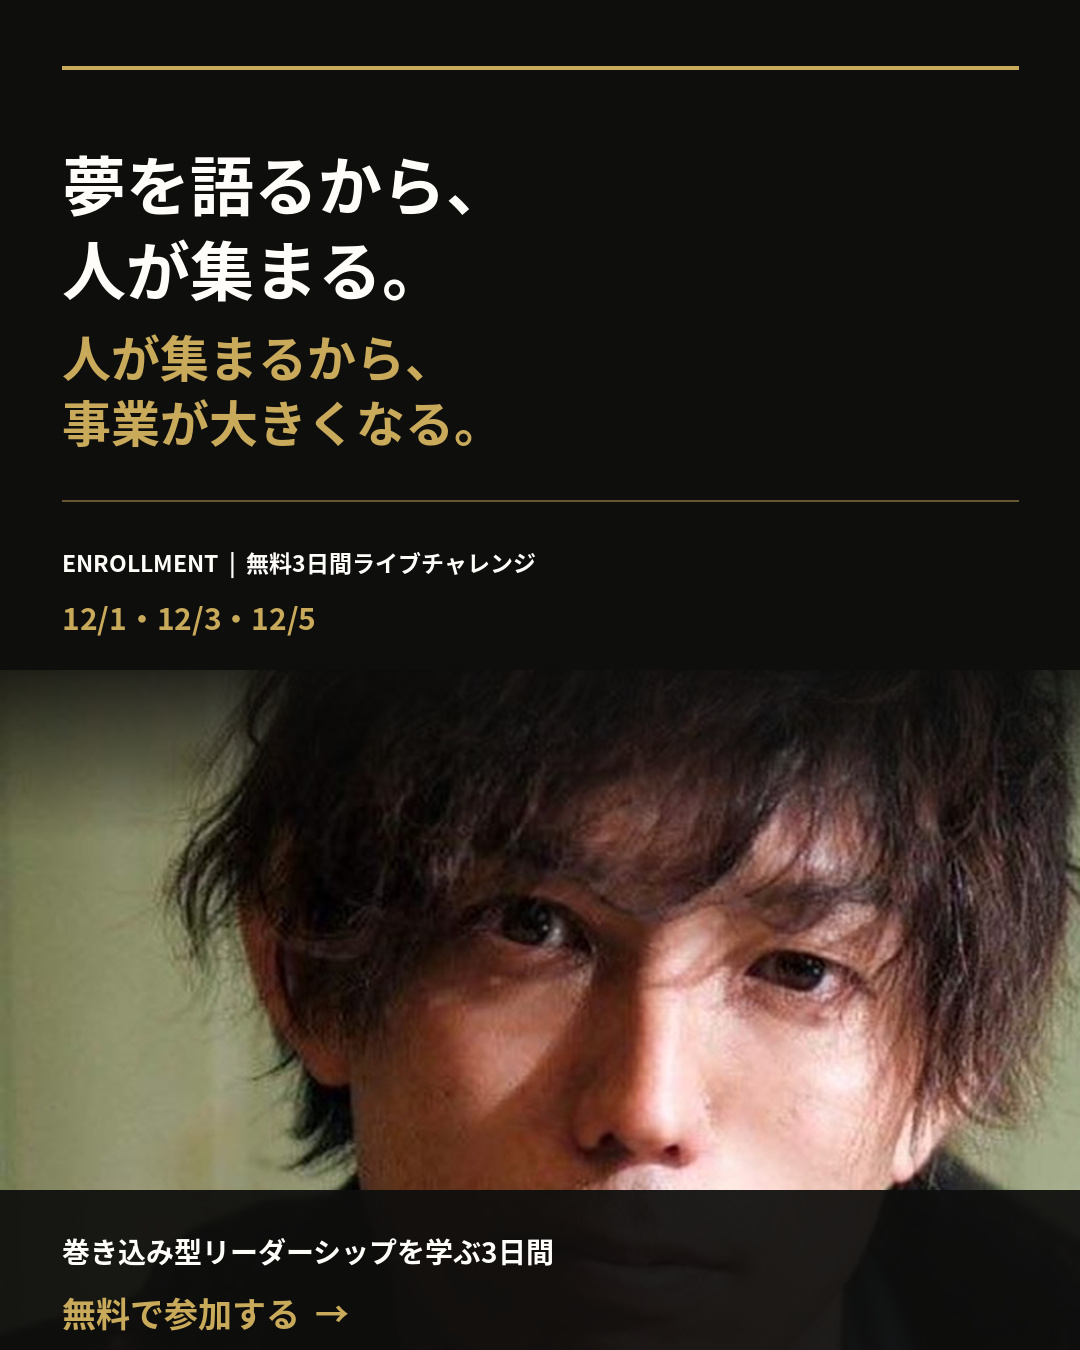
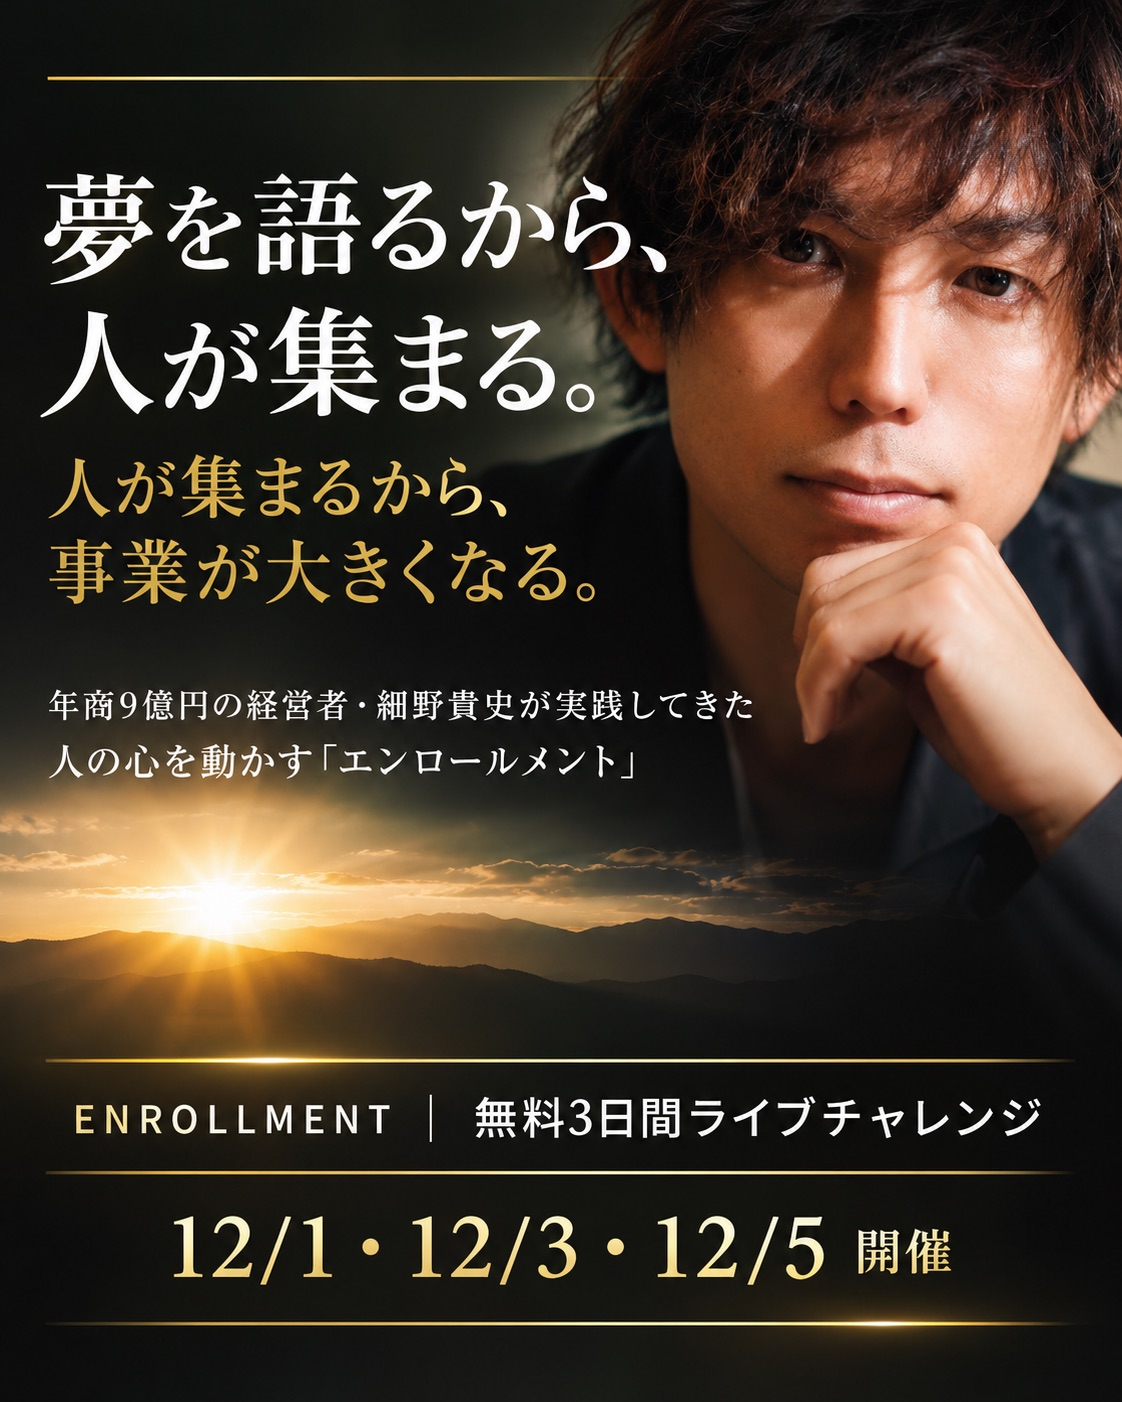
fix: refine Enrollment mobile hero and creative

diff --git a/enrollment/index.html b/enrollment/index.html
@@ -7,8 +7,8 @@
   <title>Enrollment｜無料3日間ライブチャレンジ</title>
   <style>
     :root{--ink:#11110f;--paper:#f6f2e9;--gold:#c9aa5b;--muted:#c9c4b8;--line:rgba(201,170,91,.4)}
-    *{box-sizing:border-box}html{scroll-behavior:smooth}body{margin:0;background:var(--ink);color:#fff;font-family:-apple-system,BlinkMacSystemFont,"Hiragino Sans","Yu Gothic",Meiryo,sans-serif;line-height:1.7}a{color:inherit;text-decoration:none}.wrap{width:min(1080px,calc(100% - 40px));margin:auto}.gold{color:var(--gold)}.eyebrow{font-size:.78rem;letter-spacing:.15em;color:var(--gold);font-weight:700}.cta{display:inline-flex;align-items:center;justify-content:center;background:var(--gold);color:var(--ink);font-weight:800;padding:18px 28px;min-width:260px;transition:.2s;box-shadow:0 10px 30px rgba(201,170,91,.18)}.cta:hover{transform:translateY(-2px);filter:brightness(1.08)}.cta--wide{width:100%;max-width:500px}.hero{min-height:760px;display:grid;grid-template-columns:1.05fr .95fr;gap:48px;align-items:center;padding:66px 0 40px}.hero h1{font-size:clamp(2.65rem,6vw,5.7rem);line-height:1.08;letter-spacing:-.05em;margin:18px 0 28px}.hero .lead{font-size:1.05rem;max-width:540px;color:#e8e4da;margin:0 0 30px}.date{display:flex;gap:10px;align-items:center;font-size:.95rem;margin:0 0 24px;color:var(--muted)}.date::before{content:"";display:block;width:24px;height:1px;background:var(--gold)}.hero-art{position:relative;min-height:570px;overflow:hidden;background:#191815;border:1px solid var(--line)}.hero-art img{display:block;width:100%;height:100%;object-fit:cover}.hero-art::after{content:"";position:absolute;inset:0;background:linear-gradient(180deg,transparent 62%,rgba(0,0,0,.45))}.hero-art small{position:absolute;z-index:1;bottom:22px;left:22px;font-size:.72rem;letter-spacing:.12em;color:#fff}.intro{background:var(--paper);color:var(--ink);padding:92px 0}.intro-grid{display:grid;grid-template-columns:.85fr 1.15fr;gap:64px}.intro h2,.section-title{font-size:clamp(2rem,4vw,3.5rem);letter-spacing:-.04em;line-height:1.22;margin:14px 0 0}.intro p{font-size:1.1rem;margin:0 0 18px}.outcomes{padding:96px 0;border-top:1px solid var(--line)}.outcomes h2{font-size:clamp(2rem,4vw,3.4rem);line-height:1.25;letter-spacing:-.04em;margin:16px 0 44px}.cards{display:grid;grid-template-columns:repeat(3,1fr);gap:16px}.card{padding:28px 24px;border:1px solid var(--line);min-height:220px;background:linear-gradient(145deg,rgba(255,255,255,.04),rgba(255,255,255,0))}.card b{display:block;color:var(--gold);font-size:1.15rem;line-height:1.45;margin:14px 0}.card p{margin:0;color:#ded9cd;font-size:.93rem}.number{font-size:.82rem;color:var(--gold);letter-spacing:.1em}.who{background:#1b1a17;padding:88px 0}.who-grid{display:grid;grid-template-columns:1fr 1fr;gap:28px}.who-box{border-top:1px solid var(--gold);padding:22px 0}.who-box h3{font-size:1.25rem;margin:0 0 12px}.who-box ul{margin:0;padding-left:1.1em;color:#ded9cd}.who-box li{margin:8px 0}.program{padding:92px 0;background:var(--paper);color:var(--ink)}.program h2{font-size:clamp(2rem,4vw,3.4rem);line-height:1.25;letter-spacing:-.04em;margin:16px 0 42px}.days{display:grid;grid-template-columns:repeat(3,1fr);gap:16px}.day{padding:26px;border-top:3px solid var(--gold);background:#fff}.day time{font-size:.82rem;font-weight:800;color:#74633a}.day h3{font-size:1.35rem;line-height:1.4;margin:12px 0}.day p{margin:0;font-size:.93rem}.proof{padding:86px 0}.proof blockquote{font-size:clamp(1.7rem,3.6vw,3.2rem);line-height:1.45;letter-spacing:-.04em;margin:18px 0 26px;max-width:920px}.proof p{color:#ded9cd;max-width:700px}.faq{padding:85px 0;border-top:1px solid var(--line)}.faq h2{font-size:clamp(2rem,4vw,3.2rem);margin:12px 0 30px}.faq details{border-top:1px solid rgba(255,255,255,.18);padding:18px 0}.faq details:last-of-type{border-bottom:1px solid rgba(255,255,255,.18)}.faq summary{cursor:pointer;font-weight:700}.faq p{margin:13px 0 0;color:#ded9cd}.closing{padding:100px 0 112px;text-align:center;background:radial-gradient(circle at 50% 0,rgba(201,170,91,.21),transparent 45%)}.closing h2{font-size:clamp(2.35rem,5vw,4.5rem);line-height:1.2;letter-spacing:-.05em;margin:18px auto 22px;max-width:820px}.closing p{color:#e2ddd3;margin:0 auto 30px;max-width:600px}.footer{padding:28px 0;color:#9e9a91;font-size:.76rem;text-align:center;border-top:1px solid rgba(255,255,255,.12)}.sticky{display:none}
-    @media(max-width:760px){.wrap{width:min(100% - 30px,680px)}.hero{min-height:auto;grid-template-columns:1fr;padding:42px 0 20px;gap:28px}.hero h1{font-size:3.15rem}.hero-art{min-height:430px}.intro,.outcomes,.who,.program,.proof,.faq,.closing{padding:62px 0}.intro-grid,.who-grid{grid-template-columns:1fr;gap:30px}.cards,.days{grid-template-columns:1fr}.card{min-height:auto}.sticky{position:fixed;display:flex;justify-content:center;align-items:center;z-index:20;bottom:0;left:0;right:0;padding:12px 15px;background:rgba(17,17,15,.94);backdrop-filter:blur(8px);border-top:1px solid var(--line)}.sticky .cta{width:100%;padding:14px 18px}.footer{padding-bottom:84px}}
+    *{box-sizing:border-box}html{scroll-behavior:smooth}body{margin:0;background:var(--ink);color:#fff;font-family:-apple-system,BlinkMacSystemFont,"Hiragino Sans","Yu Gothic",Meiryo,sans-serif;line-height:1.7}a{color:inherit;text-decoration:none}.wrap{width:min(1080px,calc(100% - 40px));margin:auto}.gold{color:var(--gold)}.eyebrow{font-size:.78rem;letter-spacing:.15em;color:var(--gold);font-weight:700}.cta{display:inline-flex;align-items:center;justify-content:center;background:var(--gold);color:var(--ink);font-weight:800;padding:18px 28px;min-width:260px;transition:.2s;box-shadow:0 10px 30px rgba(201,170,91,.18)}.cta:hover{transform:translateY(-2px);filter:brightness(1.08)}.cta--wide{width:100%;max-width:500px}.hero{min-height:760px;display:grid;grid-template-columns:1.05fr .95fr;gap:48px;align-items:center;padding:66px 0 40px}.hero h1{font-size:clamp(2.65rem,6vw,5.7rem);line-height:1.08;letter-spacing:-.05em;margin:18px 0 28px}.mobile-title{display:none}.hero .lead{font-size:1.05rem;max-width:540px;color:#e8e4da;margin:0 0 30px}.date{display:flex;gap:10px;align-items:center;font-size:.95rem;margin:0 0 24px;color:var(--muted)}.date::before{content:"";display:block;width:24px;height:1px;background:var(--gold)}.hero-art{position:relative;aspect-ratio:3/4;min-height:0;overflow:hidden;background:#191815;border:1px solid var(--line);justify-self:end;width:min(100%,500px)}.hero-art img{display:block;width:100%;height:100%;object-fit:cover}.hero-art::after{content:"";position:absolute;inset:0;background:linear-gradient(180deg,transparent 62%,rgba(0,0,0,.45))}.hero-art small{position:absolute;z-index:1;bottom:22px;left:22px;font-size:.72rem;letter-spacing:.12em;color:#fff}.intro{background:var(--paper);color:var(--ink);padding:92px 0}.intro-grid{display:grid;grid-template-columns:.85fr 1.15fr;gap:64px}.intro h2,.section-title{font-size:clamp(2rem,4vw,3.5rem);letter-spacing:-.04em;line-height:1.22;margin:14px 0 0}.intro p{font-size:1.1rem;margin:0 0 18px}.outcomes{padding:96px 0;border-top:1px solid var(--line)}.outcomes h2{font-size:clamp(2rem,4vw,3.4rem);line-height:1.25;letter-spacing:-.04em;margin:16px 0 44px}.cards{display:grid;grid-template-columns:repeat(3,1fr);gap:16px}.card{padding:28px 24px;border:1px solid var(--line);min-height:220px;background:linear-gradient(145deg,rgba(255,255,255,.04),rgba(255,255,255,0))}.card b{display:block;color:var(--gold);font-size:1.15rem;line-height:1.45;margin:14px 0}.card p{margin:0;color:#ded9cd;font-size:.93rem}.number{font-size:.82rem;color:var(--gold);letter-spacing:.1em}.who{background:#1b1a17;padding:88px 0}.who-grid{display:grid;grid-template-columns:1fr 1fr;gap:28px}.who-box{border-top:1px solid var(--gold);padding:22px 0}.who-box h3{font-size:1.25rem;margin:0 0 12px}.who-box ul{margin:0;padding-left:1.1em;color:#ded9cd}.who-box li{margin:8px 0}.program{padding:92px 0;background:var(--paper);color:var(--ink)}.program h2{font-size:clamp(2rem,4vw,3.4rem);line-height:1.25;letter-spacing:-.04em;margin:16px 0 42px}.days{display:grid;grid-template-columns:repeat(3,1fr);gap:16px}.day{padding:26px;border-top:3px solid var(--gold);background:#fff}.day time{font-size:.82rem;font-weight:800;color:#74633a}.day h3{font-size:1.35rem;line-height:1.4;margin:12px 0}.day p{margin:0;font-size:.93rem}.proof{padding:86px 0}.proof blockquote{font-size:clamp(1.7rem,3.6vw,3.2rem);line-height:1.45;letter-spacing:-.04em;margin:18px 0 26px;max-width:920px}.proof p{color:#ded9cd;max-width:700px}.faq{padding:85px 0;border-top:1px solid var(--line)}.faq h2{font-size:clamp(2rem,4vw,3.2rem);margin:12px 0 30px}.faq details{border-top:1px solid rgba(255,255,255,.18);padding:18px 0}.faq details:last-of-type{border-bottom:1px solid rgba(255,255,255,.18)}.faq summary{cursor:pointer;font-weight:700}.faq p{margin:13px 0 0;color:#ded9cd}.closing{padding:100px 0 112px;text-align:center;background:radial-gradient(circle at 50% 0,rgba(201,170,91,.21),transparent 45%)}.closing h2{font-size:clamp(2.35rem,5vw,4.5rem);line-height:1.2;letter-spacing:-.05em;margin:18px auto 22px;max-width:820px}.closing p{color:#e2ddd3;margin:0 auto 30px;max-width:600px}.footer{padding:28px 0;color:#9e9a91;font-size:.76rem;text-align:center;border-top:1px solid rgba(255,255,255,.12)}.sticky{display:none}
+    @media(max-width:760px){.wrap{width:min(100% - 30px,680px)}.hero{min-height:auto;grid-template-columns:1fr;padding:42px 0 20px;gap:28px}.hero h1{font-size:2.5rem;line-height:1.14;letter-spacing:-.06em}.desktop-title{display:none}.mobile-title{display:inline}.hero-art{min-height:0;width:100%;justify-self:stretch}.closing h2{font-size:2.3rem;line-height:1.24}.intro,.outcomes,.who,.program,.proof,.faq,.closing{padding:62px 0}.intro-grid,.who-grid{grid-template-columns:1fr;gap:30px}.cards,.days{grid-template-columns:1fr}.card{min-height:auto}.sticky{position:fixed;display:flex;justify-content:center;align-items:center;z-index:20;bottom:0;left:0;right:0;padding:12px 15px;background:rgba(17,17,15,.94);backdrop-filter:blur(8px);border-top:1px solid var(--line)}.sticky .cta{width:100%;padding:14px 18px}.footer{padding-bottom:84px}}
   </style>
   <!-- Meta Pixel: existing Enrollment Pixel -->
   <script>
@@ -21,7 +21,7 @@
   <header class="wrap hero">
     <div>
       <p class="eyebrow">ENROLLMENT｜無料3日間ライブチャレンジ</p>
-      <h1>仲間に任せたいのに、<br><span class="gold">結局ひとりで</span><br>抱えてしまう経営者へ。</h1>
+      <h1><span class="desktop-title">仲間に任せたいのに、<br><span class="gold">結局ひとりで</span><br>抱えてしまう経営者へ。</span><span class="mobile-title">仲間に任せたい。<br>それでも、<br><span class="gold">結局ひとりで</span><br>抱えてしまう<br>経営者へ。</span></h1>
       <p class="lead">理念を伝えても現場が動かない。採用しても指示待ちになる。<br>3日間で、仲間が「やらされる組織」から抜け出すための、巻き込み方の原理原則を学びます。</p>
       <p class="date">12/1・12/3・12/5 開催｜オンライン・無料</p>
       <a class="cta" href="https://pro.form-mailer.jp/fms/ca0142ec357850">無料3日間に申し込む&nbsp; →</a>
@@ -42,7 +42,7 @@
 
     <section class="faq"><div class="wrap"><p class="eyebrow">FAQ</p><h2>よくある質問</h2><details><summary>参加費はかかりますか？</summary><p>無料で参加いただけます。</p></details><details><summary>オンラインで参加できますか？</summary><p>はい。詳細は申込み後にご案内します。</p></details><details><summary>経営者でなくても参加できますか？</summary><p>チーム・組織を率いる立場の方、これからその役割を担う方にも役立つ内容です。</p></details></div></section>
 
-    <section class="closing"><div class="wrap"><p class="eyebrow">JOIN THE CHALLENGE</p><h2>ひとりで前に進める経営から、<br><span class="gold">仲間と未来をつくる経営へ。</span></h2><p>12/1・12/3・12/5。無料3日間ライブチャレンジで、組織を変える最初の視点を手に入れてください。</p><a class="cta cta--wide" href="https://pro.form-mailer.jp/fms/ca0142ec357850">無料3日間に申し込む&nbsp; →</a></div></section>
+    <section class="closing"><div class="wrap"><p class="eyebrow">JOIN THE CHALLENGE</p><h2><span class="desktop-title">ひとりで前に進める経営から、<br><span class="gold">仲間と未来をつくる経営へ。</span></span><span class="mobile-title">ひとりで前に進める<br>経営から、<br><span class="gold">仲間と未来をつくる<br>経営へ。</span></span></h2><p>12/1・12/3・12/5。無料3日間ライブチャレンジで、組織を変える最初の視点を手に入れてください。</p><a class="cta cta--wide" href="https://pro.form-mailer.jp/fms/ca0142ec357850">無料3日間に申し込む&nbsp; →</a></div></section>
   </main>
   <footer class="footer"><div class="wrap">© 株式会社Amor｜Enrollment 3 Days Live Challenge</div></footer>
   <div class="sticky"><a class="cta" href="https://pro.form-mailer.jp/fms/ca0142ec357850">無料3日間に申し込む&nbsp; →</a></div>
